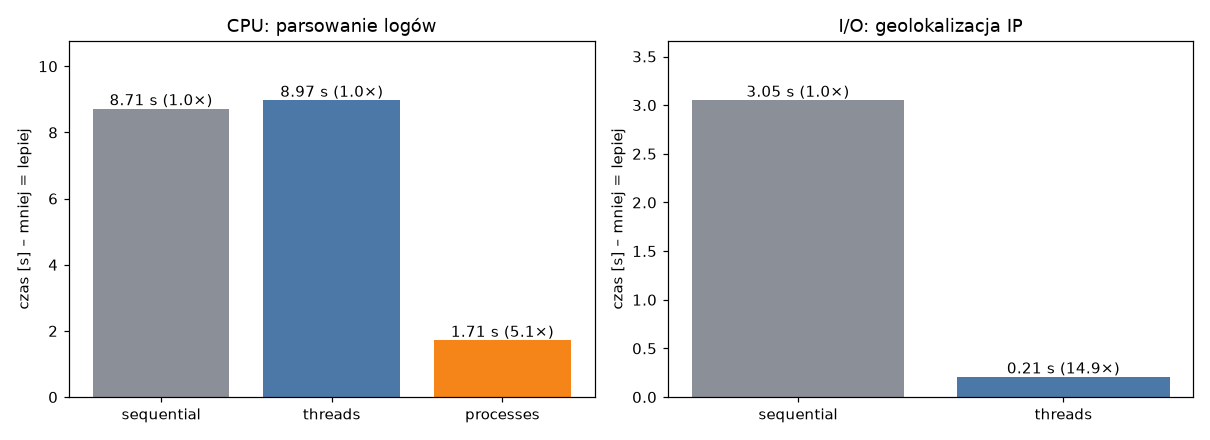
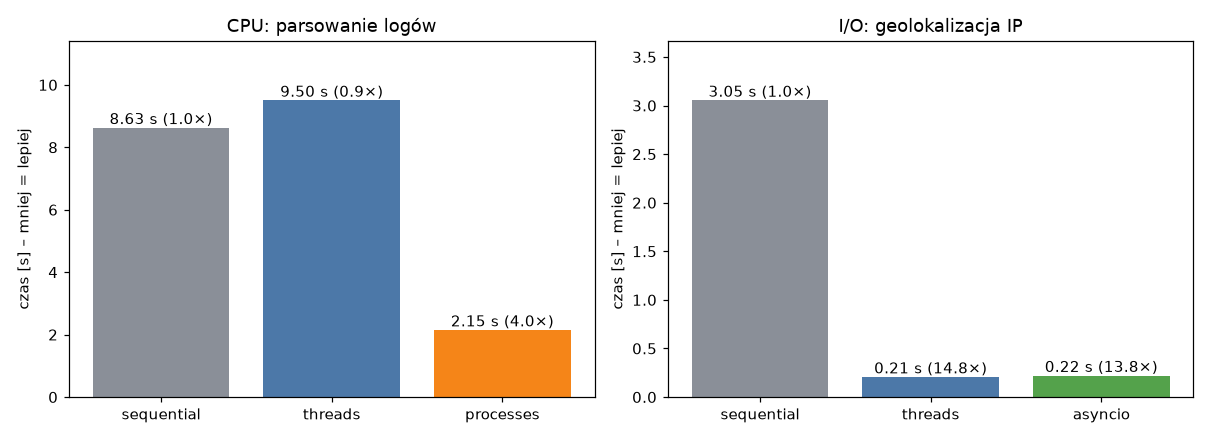
Wariant asyncio geolokalizacji i jego pomiar w benchmarku

diff --git a/log_analyzer/geoip.py b/log_analyzer/geoip.py
@@ -4,8 +4,11 @@ Zamiast prawdziwego API używamy lokalnej bazy (``data/ip_db.csv``) i
 **symulujemy** sieć: każde zapytanie czeka ``latency`` sekund (``time.sleep``)
 i może losowo się nie udać. ``time.sleep``, tak jak prawdziwe czekanie
 na gniazdo sieciowe, zwalnia GIL, więc wiele wątków może czekać jednocześnie.
+Dla porównania jest też wariant ``asyncio`` (``resolve_async``): jeden wątek
+i wiele korutyn czekających razem na ``await asyncio.sleep``.
 """
 
+import asyncio
 import ipaddress
 import random
 import threading
@@ -132,3 +135,53 @@ class IpResolver:
         with ThreadPoolExecutor(max_workers=workers) as pool:
             # pool.map zwraca wyniki w tej samej kolejności co wejście, więc zip je dopasuje
             return dict(zip(unique, pool.map(self.lookup, unique)))
+
+    # --- wariant asyncio: jeden wątek, wiele korutyn ---------------------------
+
+    async def lookup_async(self, ip: str, attempts: int = 4, delay: float = 0.005) -> GeoInfo | None:
+        """Asynchroniczna wersja :meth:`lookup` (to samo zadanie, inny model współbieżności).
+
+        Wszystkie korutyny działają w JEDNYM wątku, a przełączenie między nimi
+        następuje tylko w miejscu ``await``. Dlatego ``requests_made += 1`` nie
+        potrzebuje tu blokady – nikt nie przerwie tej instrukcji w połowie.
+        Ponawianie jest napisane ręcznie, bo dekorator ``retry`` używa
+        ``time.sleep``, który zablokowałby całą pętlę zdarzeń.
+        """
+        if not is_valid_ipv4(ip):
+            raise ValueError(f"niepoprawny adres IP: {ip!r}")
+        if ip in self._cache:
+            return self._cache[ip]
+        info = None
+        wait = delay
+        for attempt in range(1, attempts + 1):
+            self.requests_made += 1
+            fail = self._rng.random() < self.failure_rate
+            if fail:
+                self.failures += 1
+            await asyncio.sleep(self.latency)  # oddaje sterowanie innym korutynom
+            if not fail:
+                info = self.database.lookup(ip)
+                break
+            if attempt < attempts:
+                await asyncio.sleep(wait)  # exponential backoff, jak w retry
+                wait *= 2
+        self._cache[ip] = info
+        return info
+
+    async def resolve_async(self, ips: Iterable[str], concurrency: int = 16) -> dict[str, GeoInfo | None]:
+        """Adresy współbieżnie w pętli zdarzeń ``asyncio``.
+
+        ``Semaphore`` ogranicza liczbę jednocześnie otwartych zapytań do
+        concurrency – tak samo jak liczba wątków w :meth:`resolve_threaded`,
+        żeby porównanie w benchmarku było uczciwe.
+        """
+        unique = list(dict.fromkeys(ips))
+        semaphore = asyncio.Semaphore(concurrency)
+
+        async def limited(ip: str) -> GeoInfo | None:
+            async with semaphore:
+                return await self.lookup_async(ip)
+
+        # gather uruchamia wszystkie korutyny naraz i zwraca wyniki w kolejności wejścia
+        results = await asyncio.gather(*(limited(ip) for ip in unique))
+        return dict(zip(unique, results))

diff --git a/log_analyzer/benchmark.py b/log_analyzer/benchmark.py
@@ -6,6 +6,7 @@ Dwa scenariusze, bo GIL zachowuje się w nich zupełnie inaczej:
 2. **I/O-bound** – geolokalizacja adresów IP z symulowanym opóźnieniem sieci.
 """
 
+import asyncio
 import os
 import platform
 import random
@@ -55,17 +56,21 @@ def cpu_benchmark(paths: list[Path], workers: int, repeats: int) -> list[Measure
 
 
 def io_benchmark(ip_count: int, latency: float, workers: int, repeats: int) -> list[Measurement]:
-    """Geolokalizacja IP sekwencyjnie i w wątkach.
+    """Geolokalizacja IP sekwencyjnie, w wątkach i w ``asyncio``.
 
     Każdy przebieg dostaje nowy ``IpResolver`` – inaczej drugi przebieg
-    trafiałby w cache i nic by nie mierzył.
+    trafiałby w cache i nic by nie mierzył. ``asyncio`` ma ten sam limit
+    współbieżności (*workers*) co pula wątków.
     """
     database = IpDatabase.load()
     ips = random_ips(random.Random(7), ip_count)
     seq = best_time(lambda: IpResolver(database, latency).resolve_sequential(ips), repeats)
     thr = best_time(lambda: IpResolver(database, latency).resolve_threaded(ips, workers), repeats)
+    aio = best_time(lambda: asyncio.run(IpResolver(database, latency).resolve_async(ips, workers)),
+                    repeats)
     return [Measurement("I/O: geolokalizacja IP", "sequential", seq),
-            Measurement("I/O: geolokalizacja IP", "threads", thr)]
+            Measurement("I/O: geolokalizacja IP", "threads", thr),
+            Measurement("I/O: geolokalizacja IP", "asyncio", aio)]
 
 
 def to_markdown(rows: list[Measurement]) -> str:
@@ -75,6 +80,9 @@ def to_markdown(rows: list[Measurement]) -> str:
               "| Scenariusz | Wariant | Czas [s] | Przyspieszenie |\n|---|---|---:|---:|\n")
     return header + "\n".join(f"| {r.scenario} | {r.variant} | {r.seconds:.3f} | {r.speedup:.2f}× |"
                               for r in rows)
+
+
+COLORS = {"sequential": "#8a8f98", "threads": "#4c78a8", "processes": "#f58518", "asyncio": "#54a24b"}
 
 
 def save_chart(rows: list[Measurement], path: Path) -> None:
@@ -88,7 +96,7 @@ def save_chart(rows: list[Measurement], path: Path) -> None:
     for ax, scenario in zip(axes, scenarios):
         part = [r for r in rows if r.scenario == scenario]
         bars = ax.bar([r.variant for r in part], [r.seconds for r in part],
-                      color=["#8a8f98", "#4c78a8", "#f58518"][:len(part)])
+                      color=[COLORS.get(r.variant, "#8a8f98") for r in part])
         ax.bar_label(bars, labels=[f"{r.seconds:.2f} s ({r.speedup:.1f}×)" for r in part])
         ax.set_title(scenario)
         ax.set_ylabel("czas [s] – mniej = lepiej")

diff --git a/tests/test_geoip.py b/tests/test_geoip.py
@@ -1,5 +1,6 @@
 """Baza IP i wielowątkowy IpResolver."""
 
+import asyncio
 from pathlib import Path
 
 import pytest
@@ -46,3 +47,20 @@ def test_retry_recovers_from_transient_failures(db: IpDatabase) -> None:
     # Każda porażka powoduje ponowienie – oprócz ostatniej próby adresu, który się „poddał”.
     assert resolver.requests_made == 40 + resolver.failures - unresolved
     assert unresolved <= 10
+
+
+def test_async_gives_same_result_as_threads(db: IpDatabase) -> None:
+    ips = [f"83.{i}.0.1" for i in range(30)] * 2
+    expected = IpResolver(db, latency=0.001).resolve_threaded(ips, workers=8)
+    resolver = IpResolver(db, latency=0.001)
+    result = asyncio.run(resolver.resolve_async(ips, concurrency=8))
+    assert result == expected
+    assert resolver.requests_made == 30  # duplikaty usunięte, bez Locka nic nie zginęło
+
+
+def test_async_retry_recovers_from_transient_failures(db: IpDatabase) -> None:
+    resolver = IpResolver(db, latency=0, failure_rate=0.3, seed=1)
+    result = asyncio.run(resolver.resolve_async([f"62.0.{i}.1" for i in range(40)]))
+    unresolved = sum(info is None for info in result.values())
+    assert resolver.failures > 0
+    assert resolver.requests_made == 40 + resolver.failures - unresolved

diff --git a/README.md b/README.md
@@ -97,23 +97,30 @@ tests/           testy pytest
 | Procesy | `analyzer.py` → `LogAnalyzer.analyze("processes")` (`ProcessPoolExecutor`) |
 | Pomiar GIL | `benchmark.py` → `cpu_benchmark`, `io_benchmark` |
 | Obsługa błędów | `exceptions.py`; błędne linie zliczane w `ParseReport`; walidacja w `AnalyzerConfig.__post_init__` |
-| Elementy dodatkowe | testy (`tests/`), CLI (`cli.py`, argparse), `logging`, wykres (`results/benchmark.png`) |
+| Porównanie z `asyncio` | `geoip.py` → `IpResolver.resolve_async` (`asyncio.gather` + `Semaphore`), `lookup_async`; wariant w `benchmark.py` → `io_benchmark` |
+| Elementy dodatkowe | testy (`tests/`), CLI (`cli.py`, argparse), `logging`, `asyncio`, wykres (`results/benchmark.png`) |
 
 ## Wyniki pomiarów
 
 Polecenie: `python -m log_analyzer benchmark`.
 - **Test CPU:** 8 plików × 100 000 linii (ok. 85 MB), 8 workerów, najlepszy z 3 przebiegów.
-- **Test I/O:** geolokalizacja 150 adresów IP z opóźnieniem 20 ms na zapytanie, w 16 wątkach.
+- **Test I/O:** geolokalizacja 150 adresów IP z opóźnieniem 20 ms na zapytanie: w 16 wątkach
+  oraz w `asyncio` z limitem 16 jednoczesnych zapytań.
 
 Środowisko: Python 3.12.10 (CPython) z włączonym GIL, 16 rdzeni logicznych, Windows 11.
 
 | Scenariusz | Wariant | Czas [s] | Przyspieszenie |
 |---|---|---:|---:|
-| CPU: parsowanie logów | sequential | 8.713 | 1.00× |
-| CPU: parsowanie logów | threads | 8.969 | 0.97× |
-| CPU: parsowanie logów | processes | 1.711 | 5.09× |
-| I/O: geolokalizacja IP | sequential | 3.049 | 1.00× |
-| I/O: geolokalizacja IP | threads | 0.205 | 14.85× |
+| CPU: parsowanie logów | sequential | 8.627 | 1.00× |
+| CPU: parsowanie logów | threads | 9.502 | 0.91× |
+| CPU: parsowanie logów | processes | 2.147 | 4.02× |
+| I/O: geolokalizacja IP | sequential | 3.053 | 1.00× |
+| I/O: geolokalizacja IP | threads | 0.206 | 14.82× |
+| I/O: geolokalizacja IP | asyncio | 0.221 | 13.83× |
+
+Wyniki wahają się między uruchomieniami (zależą od tego, co jeszcze robi komputer).
+W trzech pomiarach procesy dały od 3,2× do 5,1×, wątki przy CPU 0,91–0,97×,
+a `asyncio` od 10,2× do 13,8×. Wnioski poniżej są takie same dla każdego z tych pomiarów.
 
 ![Wykres](results/benchmark.png)
 
@@ -124,10 +131,10 @@ kod Pythona – niezależnie od liczby rdzeni.
 
 Parsowanie logów to czyste obliczenia (regex, tworzenie obiektów, zliczanie), bez czekania.
 Wątki tylko przekazywały sobie GIL na zmianę, więc praca szła tak samo jak sekwencyjnie.
-Koszt przełączania wątków sprawił, że wyszło nawet minimalnie wolniej (0,97×).
+Koszt przełączania wątków sprawił, że wyszło nawet trochę wolniej (0,91×).
 
 Każdy proces ma własny interpreter i własny GIL, więc pula procesów naprawdę liczyła
-równolegle na wielu rdzeniach i przyspieszyła analizę 5,09×. Pełne 8× było nieosiągalne
+równolegle na wielu rdzeniach i przyspieszyła analizę 4,02×. Pełne 8× było nieosiągalne
 z trzech powodów:
 - start procesów na Windows (*spawn*) wymaga ponownego załadowania interpretera i modułów,
 - wyniki wracają do procesu głównego przez `pickle`,
@@ -135,11 +142,17 @@ z trzech powodów:
 
 Przy geolokalizacji wątki głównie czekają na odpowiedź „sieci” (`time.sleep`), a czekający
 wątek zwalnia GIL. Dzięki temu 16 wątków czekało jednocześnie i 150 zapytań po 20 ms zajęło
-0,2 s zamiast 3 s (14,85×).
+0,2 s zamiast 3 s (14,82×).
+
+`asyncio` osiąga podobny efekt w jednym wątku: korutyny czekają razem na
+`await asyncio.sleep`, a pętla zdarzeń przełącza się między nimi tylko w miejscach `await`.
+Dlatego licznik zapytań nie potrzebuje tu `Lock`. Wyszło nieco wolniej niż wątki (13,83×),
+bo na Windows zegar pętli zdarzeń ma rozdzielczość ok. 15,6 ms, więc `asyncio.sleep(0.02)`
+trwa często dłużej niż 20 ms.
 
 Wniosek: zadania obliczeniowe (CPU-bound) w CPythonie z GIL należy rozdzielać na procesy.
-Do zadań, które głównie czekają (I/O-bound), wystarczą wątki – są lżejsze od procesów
-i współdzielą pamięć, co pozwala na wspólny cache.
+Do zadań, które głównie czekają (I/O-bound), wystarczą wątki albo `asyncio` – są lżejsze
+od procesów i współdzielą pamięć, co pozwala na wspólny cache.
 
 ## Problemy napotkane w trakcie realizacji
 

diff --git a/results/benchmark.md b/results/benchmark.md
@@ -2,8 +2,9 @@ Python 3.12.10, GIL włączony: True, rdzenie logiczne: 16, Windows 11
 
 | Scenariusz | Wariant | Czas [s] | Przyspieszenie |
 |---|---|---:|---:|
-| CPU: parsowanie logów | sequential | 8.713 | 1.00× |
-| CPU: parsowanie logów | threads | 8.969 | 0.97× |
-| CPU: parsowanie logów | processes | 1.711 | 5.09× |
-| I/O: geolokalizacja IP | sequential | 3.049 | 1.00× |
-| I/O: geolokalizacja IP | threads | 0.205 | 14.85× |
+| CPU: parsowanie logów | sequential | 8.627 | 1.00× |
+| CPU: parsowanie logów | threads | 9.502 | 0.91× |
+| CPU: parsowanie logów | processes | 2.147 | 4.02× |
+| I/O: geolokalizacja IP | sequential | 3.053 | 1.00× |
+| I/O: geolokalizacja IP | threads | 0.206 | 14.82× |
+| I/O: geolokalizacja IP | asyncio | 0.221 | 13.83× |
